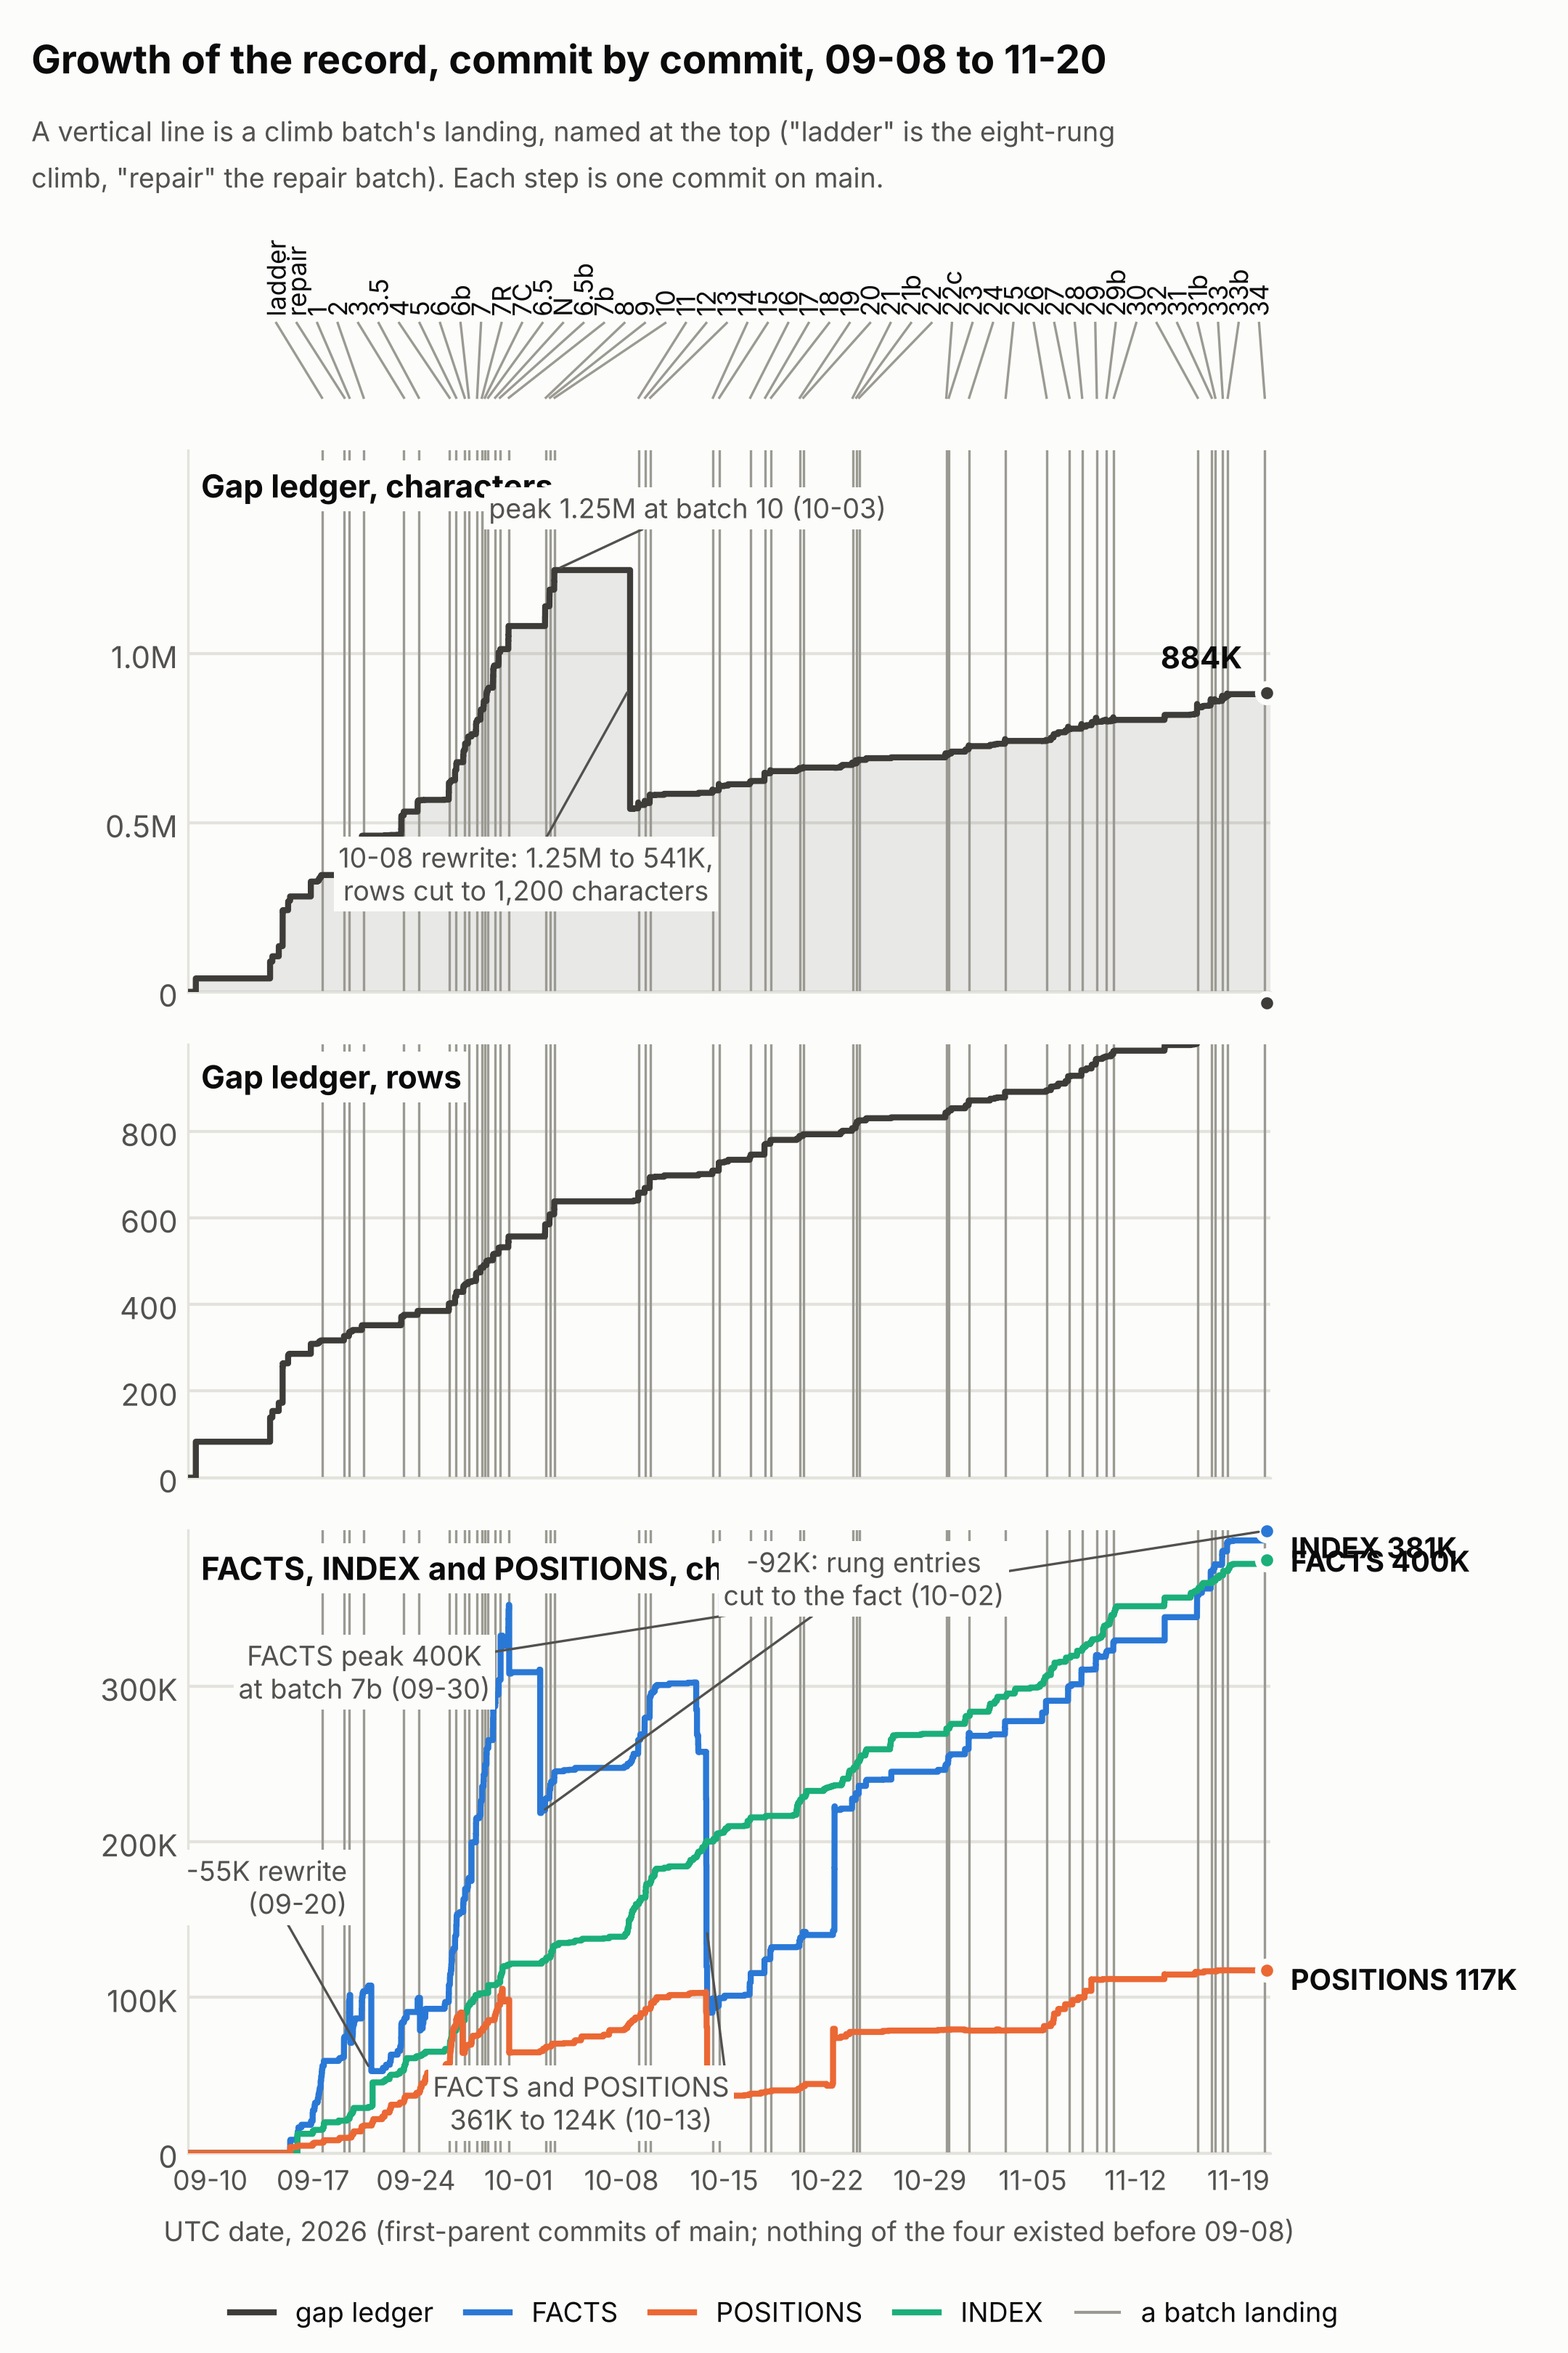
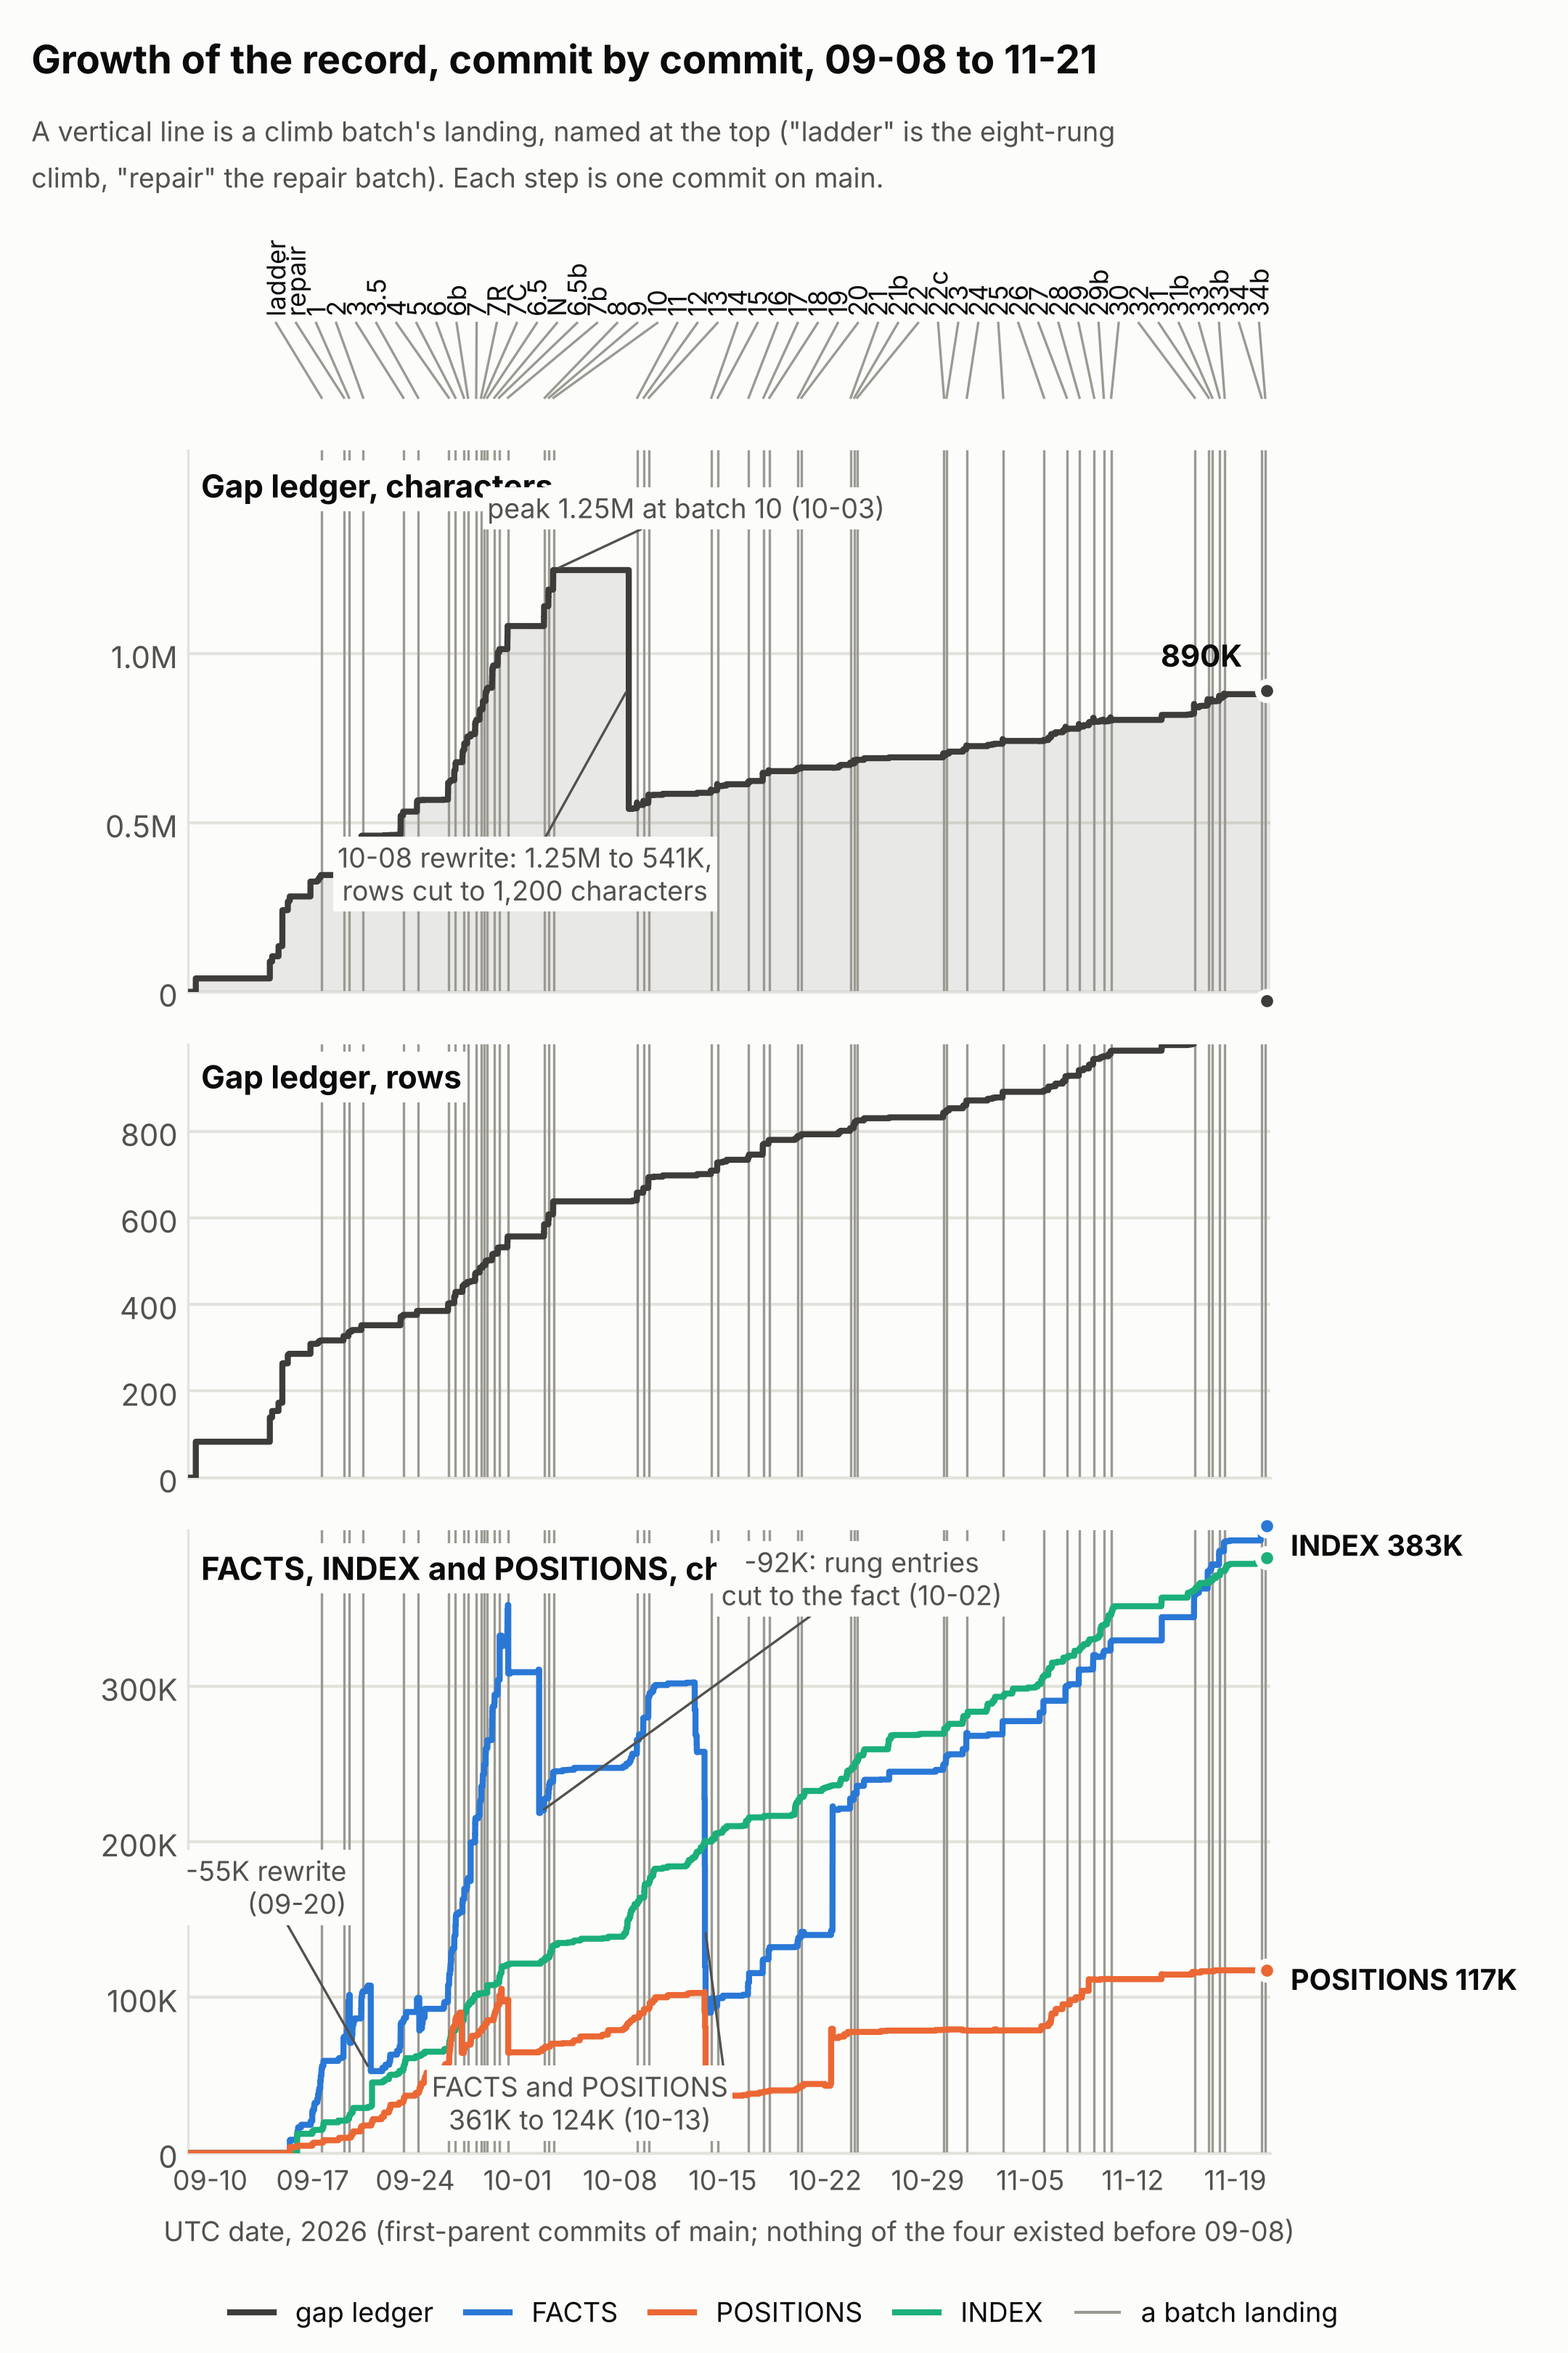
Revival page: where it stands at the landing of climb batch 34b, the record chart regenerated
By the coordinator, after the landing workflow's update.py stopped on climb batch 34b's gather record, which names its base in another form; run with --run-start 2026-11-20T22:04, the batch's launch.

Claude-Session: https://claude.ai/code/session_01AmiXNpJxQ6TBwec4vJZHDB

diff --git a/docs/revival-story/index.html b/docs/revival-story/index.html
@@ -201,7 +201,7 @@ details.words dl.gloss dd { margin-left: 1em; }
 <p>A script rewrites the block below at each landing, from the plan and the gate. The rest of the page changes only when a phase ends.</p>
 <div class="intro">
 <!-- stand:begin -->
-<p><strong>Where it stands, at the landing of batch 34 on 20 November 2026</strong></p>
+<p><strong>Where it stands, at the landing of batch 34b on 21 November 2026</strong></p>
 <ul>
 <li><strong>Phase:</strong> 4 of 6, which ends with the switch-over, since 30 October.</li>
 <li><strong>Checker count:</strong> 0.</li>
@@ -302,7 +302,7 @@ details.words dl.gloss dd { margin-left: 1em; }
 <section id="the-record" class="part">
 <h2>7. The record</h2>
 <p>The record is the project's notes, kept in the repository beside the team's code. Its main parts are the gap ledger (section 5), the list of facts, the list of the curator's decisions, and an index of all notes. An agent reads the parts its task needs before it starts, so no agent works out again what the record holds.</p>
-<figure><img src="record-growth.png" alt="The gap ledger&#x27;s characters and rows, and FACTS, POSITIONS and INDEX, commit by commit from 09-08 to 11-20, with each batch&#x27;s landing marked" width="1080" height="1620"></figure>
+<figure><img src="record-growth.png" alt="The gap ledger&#x27;s characters and rows, and FACTS, POSITIONS and INDEX, commit by commit from 09-08 to 11-21, with each batch&#x27;s landing marked" width="1080" height="1620"></figure>
 <p>The chart has three panels on one time axis, with a vertical line at each batch's landing. They show the ledger's characters, its rows, and the sizes of the facts, the decisions and the index. The ledger grows mostly while batches run, and the index by one line for each new note. Each sharp fall is a rewrite that shortened the entries, with the earlier text kept in history.</p>
 </section>
 <footer>

diff --git a/explorations/coordinator/process-engineering/revival-story.html b/explorations/coordinator/process-engineering/revival-story.html
@@ -194,7 +194,7 @@ details.words dl.gloss dd { margin-left: 1em; }
 <p>A script rewrites the block below at each landing, from the plan and the gate. The rest of the page changes only when a phase ends.</p>
 <div class="intro">
 <!-- stand:begin -->
-<p><strong>Where it stands, at the landing of batch 34 on 20 November 2026</strong></p>
+<p><strong>Where it stands, at the landing of batch 34b on 21 November 2026</strong></p>
 <ul>
 <li><strong>Phase:</strong> 4 of 6, which ends with the switch-over, since 30 October.</li>
 <li><strong>Checker count:</strong> 0.</li>
@@ -295,7 +295,7 @@ details.words dl.gloss dd { margin-left: 1em; }
 <section id="the-record" class="part">
 <h2>7. The record</h2>
 <p>The record is the project's notes, kept in the repository beside the team's code. Its main parts are the gap ledger (section 5), the list of facts, the list of the curator's decisions, and an index of all notes. An agent reads the parts its task needs before it starts, so no agent works out again what the record holds.</p>
-<figure><img src="record-growth.png" alt="The gap ledger&#x27;s characters and rows, and FACTS, POSITIONS and INDEX, commit by commit from 09-08 to 11-20, with each batch&#x27;s landing marked" width="1080" height="1620"></figure>
+<figure><img src="record-growth.png" alt="The gap ledger&#x27;s characters and rows, and FACTS, POSITIONS and INDEX, commit by commit from 09-08 to 11-21, with each batch&#x27;s landing marked" width="1080" height="1620"></figure>
 <p>The chart has three panels on one time axis, with a vertical line at each batch's landing. They show the ledger's characters, its rows, and the sizes of the facts, the decisions and the index. The ledger grows mostly while batches run, and the index by one line for each new note. Each sharp fall is a rewrite that shortened the entries, with the earlier text kept in history.</p>
 </section>
 <footer>

diff --git a/explorations/coordinator/process-engineering/revival-story.md b/explorations/coordinator/process-engineering/revival-story.md
@@ -124,7 +124,7 @@ A reading is one interpretation of a rule where the specification's text allows 
 A script rewrites the block below at each landing, from the plan and the gate. The rest of the page changes only when a phase ends.
 
 <!-- stand:begin -->
-**Where it stands, at the landing of batch 34 on 20 November 2026**
+**Where it stands, at the landing of batch 34b on 21 November 2026**
 
 - **Phase:** 4 of 6, which ends with the switch-over, since 30 October.
 - **Checker count:** 0.
